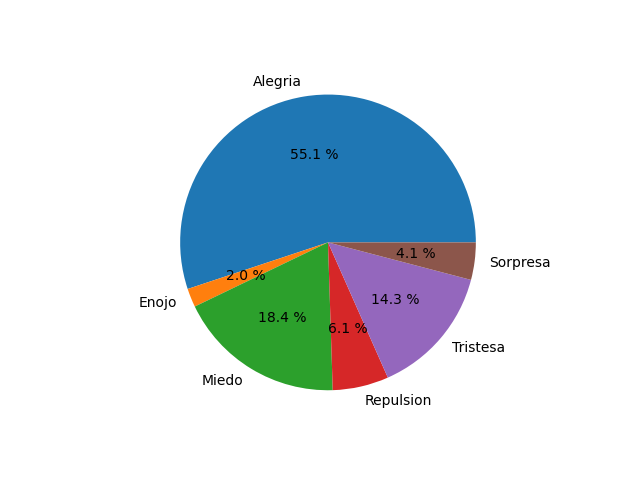
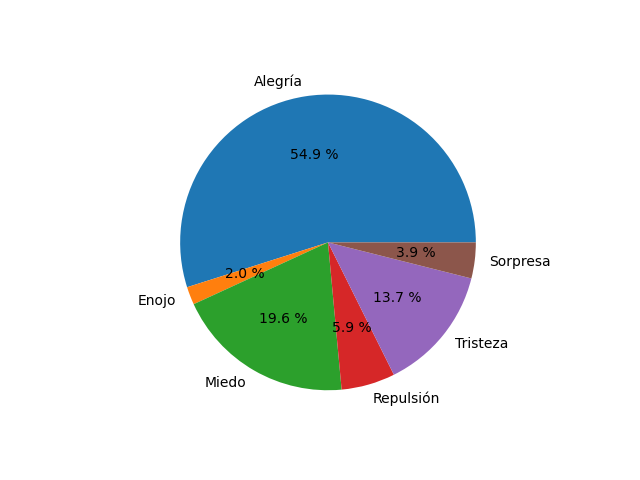
Menú por tipo de usuario
Se modifico para que en el menú solo aparezcan los botones correspondientes al tipo de usuarios.

diff --git a/SASTRE/templates/sastre/basesastre.html b/SASTRE/templates/sastre/basesastre.html
@@ -34,18 +34,26 @@
                         <li class="nav-item active">
                             <a class="nav-link text-light" href="{% url 'bienvenida' %}">Inicio<span class="sr-only">(current)</span></a>
                         </li>
+                        {% if tipoUsuario == 3 %}
                         <li class="nav-item active">
                             <a class="nav-link text-light" href="{% url 'crudInicio' %}">Administrar Perfiles<span class="sr-only">(current)</span></a>
                         </li>
+                        {% endif %}
+                        {% if tipoUsuario == 1 %}
                         <li class="nav-item active">
                             <a class="nav-link text-light" href="{% url 'inscripcionTesisInicio' %}">Inscribir Tesis<span class="sr-only">(current)</span></a>
                         </li>
+                        {% endif %}
+                        {% if tipoUsuario == 1 %}
                         <li class="nav-item active">
                             <a class="nav-link text-light" href="{% url 'evaluacionProfesorInicio' %}">Evaluación de profesores<span class="sr-only">(current)</span></a>
                         </li>
+                        {% endif %}
+                        {% if tipoUsuario == 2 %}
                         <li class="nav-item active">
                             <a class="nav-link text-light" href="{% url 'resultadoEvaluacionesInicio' %}">Resultado de evaluaciones<span class="sr-only">(current)</span></a>
                         </li>
+                        {% endif %}
                         <!--li class="nav-item dropdown">
                             <a class="nav-link dropdown-toggle text-light" href="#" id="navbarDropdown" role="button" data-toggle="dropdown" aria-haspopup="true" aria-expanded="false">Cuenta</a>
                             <div class="dropdown-menu" aria-labelledby="navbarDropdown">
@@ -54,9 +62,11 @@
                                 <a class="dropdown-item" href="{% url 'logout' %}">Cerrar Sesión</a>
                             </div>
                         </li-->
+                        {% if tipoUsuario == 1 %}
                         <li class="nav-item active">
                             <a class="nav-link text-light" href="">Trayectoria Escolar<span class="sr-only">(current)</span></a>
                         </li>
+                        {% endif %}
                         <li class="nav-item active">
                             <a class="nav-link text-light" href="{% url 'logout' %}">Cerrar Sesión<span class="sr-only">(current)</span></a>
                         </li>

diff --git a/SASTRE/evaluaciones/templates/detalleEvaluacion.html b/SASTRE/evaluaciones/templates/detalleEvaluacion.html
@@ -150,7 +150,7 @@
 
 			<div>
 				<br>
-				<h4>De acuerdo a las opiniones expresadas por los alumnos, sus comentarios pueden expresar los siguietes sentimeintos:</h4><br>
+				<h4>De acuerdo a las opiniones expresadas por los alumnos, sus comentarios pueden expresar los siguientes sentimientos:</h4><br>
 				{% load static %}
 				<img src="{% static "img/graficaSEL.png" %}" alt="Gráfico Sentimientos">
 			</div>

diff --git a/SASTRE/evaluaciones/views.py b/SASTRE/evaluaciones/views.py
@@ -29,29 +29,43 @@ import os.path as path
 @login_required(login_url='/cuenta/login/')
 def evaluacionProfesorInicio(request):
 	user = request.user
+	bandera = 1
+	if (Alumno.objects.filter(username= request.user).count()) > 0:
+		bandera = 1
+	elif (Profesor.objects.filter(username= request.user).count()) > 0:
+		bandera = 2
+	elif (PersonalAdministrativo.objects.filter(username= request.user).count()) > 0:
+		bandera = 3
 	if (Alumno.objects.filter(username= user).count()) > 0:		#Verifica si es un alumno
 		situacionEscolar = SituacionEscolar.objects.filter(usuario=user, evaluacionProfesor=False)
 		if (SituacionEscolar.objects.filter(usuario=user, evaluacionProfesor=False).count()) > 0:
-			return render(request, 'listadoMaterias.html', {'situacionEscolar': situacionEscolar})
+			return render(request, 'listadoMaterias.html', {'situacionEscolar': situacionEscolar, 'tipoUsuario': bandera})
 		else:
 			mensaje = "Ya has evaluado a todos tus profesores"
-		return render(request, 'listadoMaterias.html', {'mensaje': mensaje})
+		return render(request, 'listadoMaterias.html', {'mensaje': mensaje, 'tipoUsuario': bandera})
 	else:
 		mensaje = "Lo sentimos este módulo esta disponible solo para alumnos"
 		return render(request, 'listadoMaterias.html', {'mensaje': mensaje})
-	return render(request, 'listadoMaterias.html', {'mensaje': ['Se presento un error']})
+	return render(request, 'listadoMaterias.html', {'mensaje': ['Se presento un error'], 'tipoUsuario': bandera})
 
 @login_required(login_url='/cuenta/login/')
 def evaluarProfesor(request):
 	preguntas = Pregunta.objects.all()
 	user = request.user
+	bandera = 1
+	if (Alumno.objects.filter(username= request.user).count()) > 0:
+		bandera = 1
+	elif (Profesor.objects.filter(username= request.user).count()) > 0:
+		bandera = 2
+	elif (PersonalAdministrativo.objects.filter(username= request.user).count()) > 0:
+		bandera = 3
 	if (Alumno.objects.filter(username= user).count()) > 0:		#Verifica si es un alumno
 		sitEscId = request.POST['profesorUDAId']
 		situacionEscolar = SituacionEscolar.objects.filter(usuario=user, pk=sitEscId)
-		return render(request, 'evaluarProfesor.html', {'preguntas': preguntas, 'situacionEscolar': situacionEscolar})
+		return render(request, 'evaluarProfesor.html', {'preguntas': preguntas, 'situacionEscolar': situacionEscolar, 'tipoUsuario': bandera})
 	else:
 		mensaje = "Lo sentimos este módulo esta disponible solo para alumnos"
-		return render(request, 'evaluarProfesor.html', {'mensaje': mensaje})
+		return render(request, 'evaluarProfesor.html', {'mensaje': mensaje, 'tipoUsuario': bandera})
 	return render(request, 'evaluarProfesor.html', {'mensaje': ["Se presento un error"]})
 
 @login_required(login_url='/cuenta/login/')
@@ -60,6 +74,13 @@ def materiasCursadas(request):
 
 @login_required(login_url='/cuenta/login/')
 def guardarEvaluacion(request):
+	bandera = 1
+	if (Alumno.objects.filter(username= request.user).count()) > 0:
+		bandera = 1
+	elif (Profesor.objects.filter(username= request.user).count()) > 0:
+		bandera = 2
+	elif (PersonalAdministrativo.objects.filter(username= request.user).count()) > 0:
+		bandera = 3
 	materiaEvaluada = SituacionEscolar.objects.get(pk=request.POST['materiaInscritaId'])
 	materiaEvaluada.evaluacionProfesor = True
 	materiaEvaluada.save()
@@ -83,23 +104,37 @@ def guardarEvaluacion(request):
 	cuestionario = Cuestionario.objects.create_cuestionario(user, UA, profesorUDA, bandera, r1, r2, r3, r4, r5, r6, r7, r8, r9, r10, r11, r12)
 	cuestionario.save()
 	situacionEscolar = SituacionEscolar.objects.filter(usuario=user, evaluacionProfesor=False)
-	return render(request, 'listadoMaterias.html', {'situacionEscolar': situacionEscolar})
+	return render(request, 'listadoMaterias.html', {'situacionEscolar': situacionEscolar, 'tipoUsuario': bandera})
 
 @login_required(login_url='/cuenta/login/')
 def resultadoEvaluacionesInicio(request):
 	user = request.user
+	bandera = 1
+	if (Alumno.objects.filter(username= request.user).count()) > 0:
+		bandera = 1
+	elif (Profesor.objects.filter(username= request.user).count()) > 0:
+		bandera = 2
+	elif (PersonalAdministrativo.objects.filter(username= request.user).count()) > 0:
+		bandera = 3
 	if (Profesor.objects.filter(username= user).count()) > 0:		#Verifica si es un profesor
 		profesorId = Profesor.objects.get(username=user)
 		materias = Cuestionario.objects.filter(profesorUDA=profesorId).distinct('UA')
-		return render(request, 'resultadoEvaluaciones.html', {'materias': materias})
+		return render(request, 'resultadoEvaluaciones.html', {'materias': materias, 'tipoUsuario': bandera})
 	else:
 		mensaje = "Lo sentimos este módulo esta disponible solo para profesores"
-		return render(request, 'resultadoEvaluaciones.html', {'mensaje': mensaje})
-	return render(request, 'resultadoEvaluaciones.html', {'materias': materias})
+		return render(request, 'resultadoEvaluaciones.html', {'mensaje': mensaje, 'tipoUsuario': bandera})
+	return render(request, 'resultadoEvaluaciones.html', {'materias': materias, 'tipoUsuario': bandera})
 
 @login_required(login_url='/cuenta/login/')
 def evaluacionDetalle(request):
 	user = request.user
+	bandera = 1
+	if (Alumno.objects.filter(username= request.user).count()) > 0:
+		bandera = 1
+	elif (Profesor.objects.filter(username= request.user).count()) > 0:
+		bandera = 2
+	elif (PersonalAdministrativo.objects.filter(username= request.user).count()) > 0:
+		bandera = 3
 	if (Profesor.objects.filter(username= user).count()) > 0:		#Verifica si es un profesor
 		profesorId = Profesor.objects.get(username=user)
 		cuestionarios = Cuestionario.objects.filter(profesorUDA=profesorId, UA=request.POST['UAId'])
@@ -109,7 +144,7 @@ def evaluacionDetalle(request):
 		if not (path.exists("evaluaciones/static/img/graficaSEL.png")):
 			etiquetasXEmocion = [0,0,0,0,0,0]
 			noEtiquetasSEL = 0
-			sentimientos = ["Alegria","Enojo","Miedo","Repulsion","Tristesa","Sorpresa"]
+			sentimientos = ["Alegría","Enojo","Miedo","Repulsión","Tristeza","Sorpresa"]
 			etiquetasSEL = etiquetarTokens(tokensNormalizados,1)
 			for etiqueta in etiquetasSEL:
 				if etiqueta != "None":
@@ -296,20 +331,21 @@ def evaluacionDetalle(request):
 			plt.savefig('evaluaciones/static/img/grafica11.png')
 			plt.close()
 			respuestas = []
-		return render(request, 'detalleEvaluacion.html', {'cuestionarios': cuestionarios, 'preguntas': preguntas, 'tokensNormalizados':tokensNormalizados, 'noTokens': noTokens})
+		return render(request, 'detalleEvaluacion.html', {'cuestionarios': cuestionarios, 'preguntas': preguntas, 'tokensNormalizados':tokensNormalizados, 'noTokens': noTokens, 'tipoUsuario': bandera})
 	else:
 		mensaje = "Lo sentimos este módulo esta disponible solo para profesores"
-		return render(request, 'detalleEvaluacion.html', {'mensaje': mensaje})
-	return render(request, 'detalleEvaluacion.html', {'cuestionarios': cuestionarios})
+		return render(request, 'detalleEvaluacion.html', {'mensaje': mensaje, 'tipoUsuario': bandera})
+	return render(request, 'detalleEvaluacion.html', {'cuestionarios': cuestionarios, 'tipoUsuario': bandera})
 
 #Esta función procesa el texto y lo normaliza para su posterior uso
 def normalizarTexto(cuestionarios):
-	#lista de stopwors a utilizar
+	#lista de stopwors a remover
 	spanish_stopwords  = stopwords.words('spanish')
-	#Para remover la puntuacion
+	#Lista con signos de puntuacion
 	non_words = list(punctuation)
 	#Agregamos puntuacion usada en el idioma español
 	non_words.extend(['¿','¡'])
+	#Agregamos los digitos del 0 al 9
 	non_words.extend(map(str,range(10)))
 	#Guardamos las opiniones
 	opiniones = ""

diff --git a/SASTRE/usuario/views.py b/SASTRE/usuario/views.py
@@ -19,7 +19,14 @@ from django.contrib.auth.decorators import login_required
 @login_required(login_url='/cuenta/login/')
 def bienvenida(request):
     usuario= Usuario.objects.get(username= request.user)
-    return render(request, 'bienvenida.html', {'usuario': usuario})
+    bandera = 1
+    if (Alumno.objects.filter(username= request.user).count()) > 0:
+        bandera = 1
+    elif (Profesor.objects.filter(username= request.user).count()) > 0:
+        bandera = 2
+    elif (PersonalAdministrativo.objects.filter(username= request.user).count()) > 0:
+        bandera = 3
+    return render(request, 'bienvenida.html', {'usuario': usuario, 'tipoUsuario': bandera})
 
 @login_required(login_url='/cuenta/login/')
 def crudInicio(request):
@@ -27,7 +34,14 @@ def crudInicio(request):
     formPA = PersonalAdminForm()
     formProf = ProfesorForm()
     formAlum = AlumnoForm()
-    return render(request, 'crud/crudInicio.html', {'formPA': formPA, 'formProf': formProf, 'formAlum': formAlum, 'mensaje': mensaje})
+    bandera = 1
+    if (Alumno.objects.filter(username= request.user).count()) > 0:
+        bandera = 1
+    elif (Profesor.objects.filter(username= request.user).count()) > 0:
+        bandera = 2
+    elif (PersonalAdministrativo.objects.filter(username= request.user).count()) > 0:
+        bandera = 3
+    return render(request, 'crud/crudInicio.html', {'formPA': formPA, 'formProf': formProf, 'formAlum': formAlum, 'mensaje': mensaje, 'tipoUsuario': bandera})
 
 #=======================   CRUD Personal Administrativo   =======================#
 class PAListado(ListView): 
